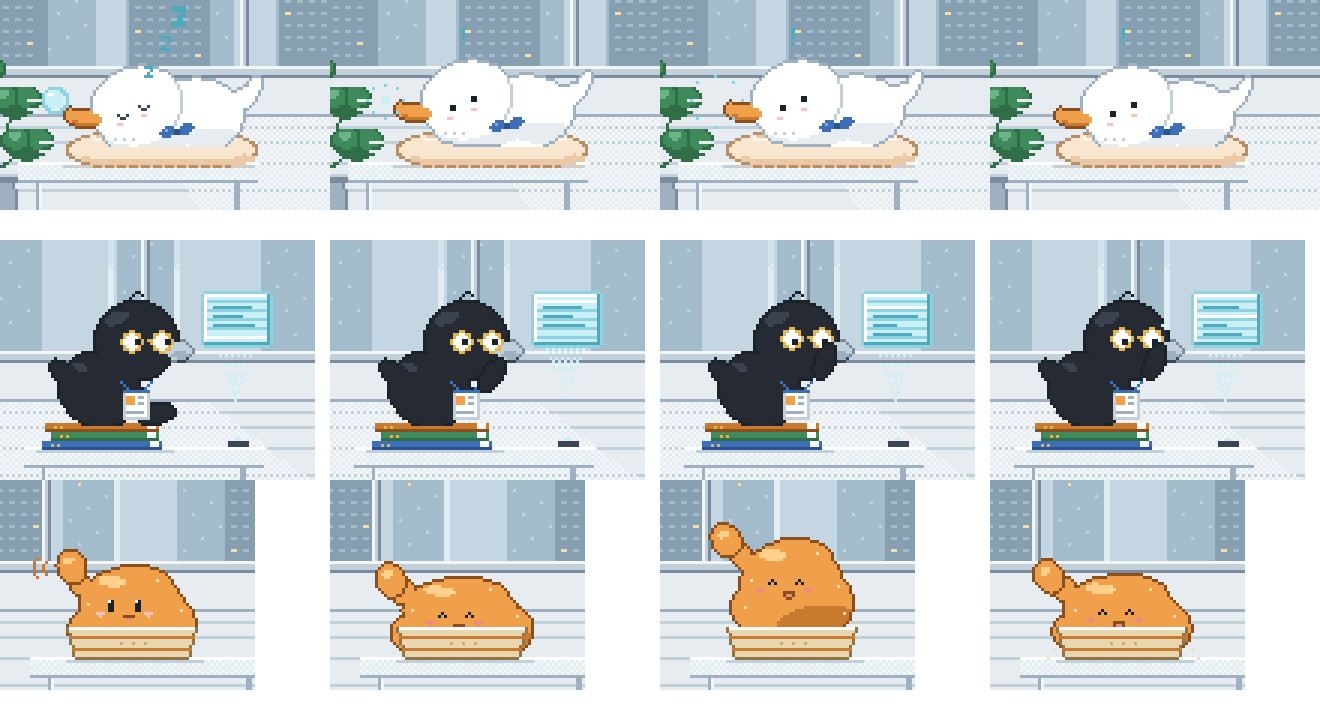
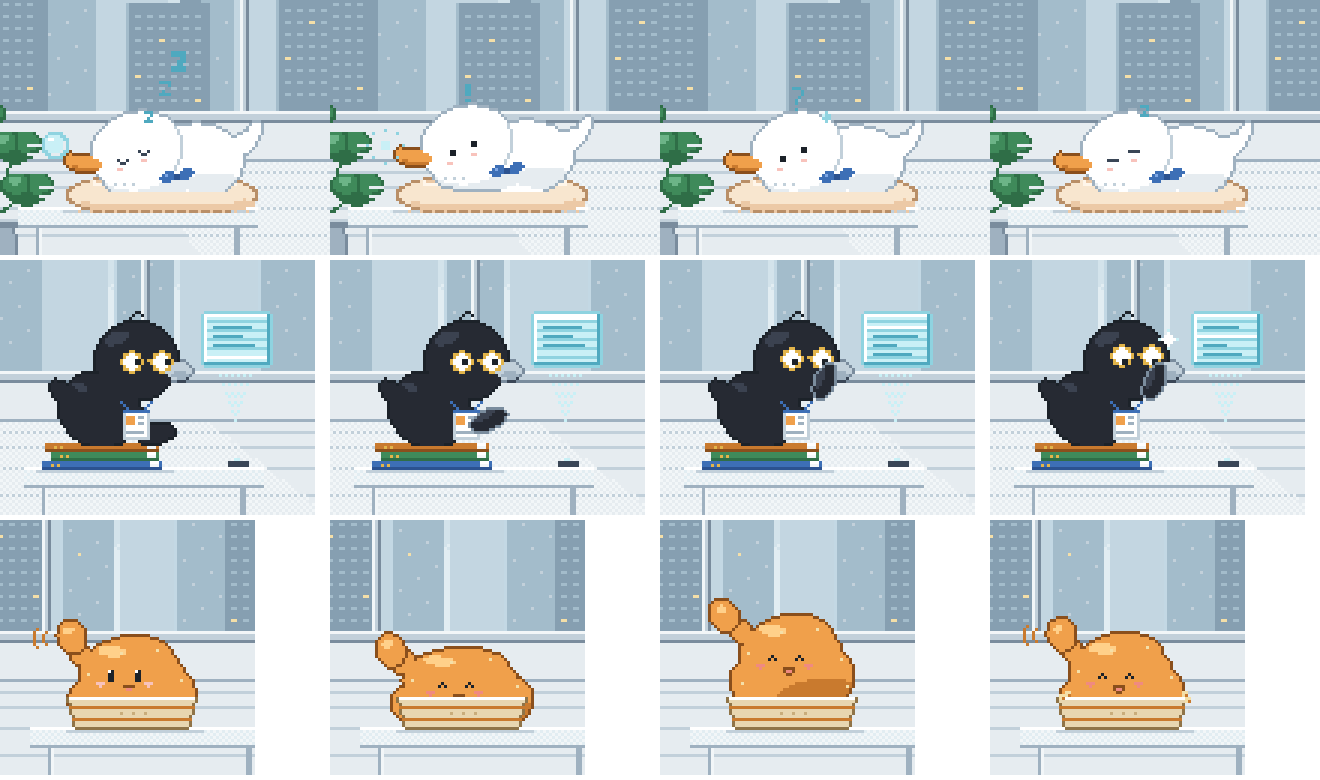
docs: company animation tweaks from review
Claude-Session: https://claude.ai/code/session_01DfELKGAuUeHGLNNJha5AAX

diff --git a/docs/plans/company/anim.html b/docs/plans/company/anim.html
@@ -85,10 +85,10 @@ let x = bgc.getContext('2d');
     for (let j = Math.floor(cy - m); j <= cy + m; j++) for (let i = Math.floor(cx - m); i <= cx + m; i++) { const dx = i + .5 - cx, dy = j + .5 - cy, u = (dx * cs + dy * sn) / rx, v = (-dx * sn + dy * cs) / ry;
       if (u * u + v * v <= 1 && i >= 0 && j >= 0 && i < W && j < H && (!only || L[j * W + i] === only)) L[j * W + i] = col; } };
   const OLC = { [C.wh]: C.g2, [C.g4]: C.g2, [C.o2]: C.o0, [C.o1]: C.o0, [C.o3]: C.o0, [C.k1]: C.ink0, [C.kh]: C.ink0, [C.g3]: C.g1 };
-  const outline = L => { const add = [];
+  const outline = (L, force) => { const add = [];
     for (let j = 0; j < H; j++) for (let i = 0; i < W; i++) { if (L[j * W + i]) continue; let col = null;
       for (const [dx, dy] of [[0, 1], [0, -1], [1, 0], [-1, 0]]) { const ni = i + dx, nj = j + dy; if (ni < 0 || nj < 0 || ni >= W || nj >= H) continue; const n = L[nj * W + ni]; if (n) { col = OLC[n] || C.ink2; if (dy === -1) break; } }
-      if (col) add.push([i, j, col]); }
+      if (col) add.push([i, j, force || col]); }
     add.forEach(([i, j, col]) => L[j * W + i] = col); };
   const blitL = (L, maxY = H) => { for (let k = 0; k < W * H; k++) if (L[k] && ((k / W) | 0) < maxY) px(k % W, (k / W) | 0, L[k]); };
   const deskBase = cx => {
@@ -130,7 +130,7 @@ function chars(t) {
 
   // ---- 茱莉鴨：泡泡慢慢吹大 → 啵 → 整隻彈一下、眼睛變圓點、愣一秒 → 慢慢睡回去（不會真的醒） ----
   { const POP = 3.0, since = tt - POP;
-    const startled = since >= 0 && since < 1.1, drowsy = since >= 1.1 && since < 1.6, gone = since >= 0 && since < 1.6;
+    const startled = since >= 0 && since < 1.2, drowsy = since >= 1.2 && since < 1.9, gone = since >= 0 && since < 1.9;
     const hop = since >= 0 && since < .32 ? Math.round(Math.sin(since / .32 * Math.PI) * 3) : 0;
     const br = gone ? 0 : (Math.sin(tt * Math.PI) + 1) / 2;   // 睡覺呼吸，2 秒一次
     const by = DY - 7 - hop, cx = 74, L = Lay(), E = (a, b, rx, ry, col, th, only) => lel(L, cx + a * S, by + b * S, rx * S, ry * S, col, th, only);
@@ -146,7 +146,8 @@ function chars(t) {
     const hx = cx - 6 * S, hy = by - 10 * S;
     [[-7, 2], [0, -1]].forEach(([a, b]) => { const ex = Math.round(hx + a), ey = Math.round(hy + b);
       if (startled) { lp(L, ex + 1, ey - 1, C.ink0); lp(L, ex + 2, ey - 1, C.ink0); lp(L, ex + 1, ey, C.ink0); lp(L, ex + 2, ey, C.ink0); }   // 眼睛變兩顆圓點
-      else if (drowsy) { lp(L, ex, ey, C.ink2); lp(L, ex + 1, ey, C.ink2); lp(L, ex + 2, ey, C.ink2); lp(L, ex + 3, ey, C.ink2); }          // 眼皮慢慢闔上
+      else if (drowsy && since < 1.55) { lp(L, ex, ey, C.ink2); lp(L, ex + 1, ey, C.ink2); lp(L, ex + 2, ey, C.ink2); lp(L, ex + 3, ey, C.ink2); lp(L, ex + 1, ey + 1, C.ink0); lp(L, ex + 2, ey + 1, C.ink0); }   // 半睜半閉
+      else if (drowsy) { lp(L, ex, ey, C.ink2); lp(L, ex + 1, ey, C.ink2); lp(L, ex + 2, ey, C.ink2); lp(L, ex + 3, ey, C.ink2); }          // 瞇成一條線
       else { lp(L, ex, ey, C.ink2); lp(L, ex + 1, ey + 1, C.ink2); lp(L, ex + 2, ey + 1, C.ink2); lp(L, ex + 3, ey, C.ink2); } });
     [[-7, 5], [1, 2]].forEach(([a, b]) => { lp(L, hx + a, hy + b, C.pk2); lp(L, hx + a + 1, hy + b, C.pk2); });
     for (let k = 0; k < 3; k++) lp(L, cx - 16 + k * 3, by - 3, C.g3);
@@ -155,7 +156,7 @@ function chars(t) {
     blitL(L, DY - 7);
     const qx = Math.round(cx - 27 * S), qy = Math.round(DY - 7 - 12 * S);
     if (!gone) {   // 泡泡：破掉 1.6 秒後重新吹，吹 6.4 秒
-      const ph = ((tt - (POP + 1.6)) % LOOP + LOOP) % LOOP / (LOOP - 1.6), r = .8 + 3.2 * ph + br * .35, cxq = qx + Math.round(2 - 2 * ph);
+      const ph = ((tt - (POP + 1.9)) % LOOP + LOOP) % LOOP / (LOOP - 1.9), r = .8 + 3.2 * ph + br * .35, cxq = qx + Math.round(2 - 2 * ph);
       if (r > 1.4) { for (let k = 0; k < 32; k++) { const a = k / 32 * Math.PI * 2; px(Math.round(cxq + Math.cos(a) * r), Math.round(qy + Math.sin(a) * r), C.cy); }
         el(cxq, qy, r - .6, r - .6, C.cy2); if (r > 2.4) { px(cxq - Math.round(r * .5), qy - Math.round(r * .5), C.wh); px(cxq - Math.round(r * .5) + 1, qy - Math.round(r * .5), C.wh); } }
       else px(cxq, qy, C.cy);
@@ -165,12 +166,18 @@ function chars(t) {
     }
     if (!gone) {   // Z：一個一個往上飄
       for (let k = 0; k < 3; k++) { const p = (tt * .4 + k / 3) % 1, s = p < .33 ? 1 : p < .66 ? 1.34 : 1.67; Zp(Math.round(cx - 6 + p * 14), Math.round(DY - 34 - p * 30), s); }
-    } else if (startled) { R(cx - 10, DY - 47, 1, 4, C.cy0); px(cx - 10, DY - 42, C.cy0); }   // 驚嚇的「！」
+    } else if (startled) {
+      const hx = cx - 9, hy = DY - 7 - hop - 34;
+      if (since < .45) { R(hx, hy, 1, 4, C.cy0); px(hx, hy + 5, C.cy0); R(hx + 1, hy, 1, 4, C.cy0); px(hx + 1, hy + 5, C.cy0); }   // 「！」
+      else { [[0, 0], [1, 0], [2, 0], [3, 1], [3, 2], [2, 3], [1, 4], [1, 5], [1, 7]].forEach(([a, b]) => px(hx - 1 + a, hy - 1 + b, C.cy0)); }   // 然後變成「？」
+      const sy = Math.round(by - 21 * S + Math.min(4, (since - .2) * 6)); if (since > .2) { px(cx + 1, sy, C.cy); R(cx, sy + 1, 3, 2, C.cy); px(cx + 1, sy + 3, C.cy); px(cx, sy + 1, C.cy2); }   // 一滴汗滑下來
+    }
+    if (drowsy && since > 1.55) Zp(cx - 4, DY - 36, 1);   // 第一個 Z 先冒出來
   }
 
   // ---- 小吳鴨：一直盯著螢幕看（眼睛左右掃），5 秒時用翅膀尖推眼鏡，鏡片閃一下 ----
   { const pp = tt - 5.0, w = pp < 0 || pp > .95 ? 0 : pp < .25 ? ease(pp / .25) : pp < .65 ? 1 : ease(1 - (pp - .65) / .3);
-    const gy = pp > .3 && pp < .7 ? -1 : 0, glint = pp > .42 && pp < .78;
+    const gy = pp > .28 && pp < .45 ? -1 : pp >= .45 && pp < .75 ? -2 : pp >= .75 && pp < .85 ? -1 : 0, glint = pp > .42 && pp < .82;
     const by = DY - 9, cx = 176, L = Lay(), E = (a, b, rx, ry, col, th, only) => lel(L, cx + a * S, by + b * S, rx * S, ry * S, col, th, only);
     E(-2, -9, 10, 9, C.k1, .35); E(7, -21, 10, 9.5, C.k1); E(-11, -13, 4, 2, C.k1, .7);
     if (w < .05) E(12, -3, 4.5, 2.2, C.k1, -.2);
@@ -184,7 +191,7 @@ function chars(t) {
     const lens = (lx, ly) => { lel(L, lx, ly, 3, 3, C.wh); for (let k = 0; k < 24; k++) { const a = k / 24 * Math.PI * 2; lp(L, lx - .5 + Math.cos(a) * 3.4, ly - .5 + Math.sin(a) * 3.4, C.au1); }
       const ex = lx + look; lp(L, ex, ly - 1 - gy, C.ink0); lp(L, ex + 1, ly - 1 - gy, C.ink0); lp(L, ex, ly - gy, C.ink0); lp(L, ex + 1, ly - gy, C.ink0); };
     const ly = Math.round(by - 21 * S) + gy; lens(Math.round(cx + 6 * S), ly); lens(Math.round(cx + 13 * S), ly); lp(L, Math.round(cx + 9.5 * S), ly - 1, C.au1);
-    if (glint) { const gx = Math.round(cx + 13 * S); [[-2, 1], [-1, 0], [0, -1], [1, -2]].forEach(([a, b]) => lp(L, gx + a, ly + b, C.wh)); }
+    if (glint) { const gx = Math.round(cx + 13 * S); [[-2, 1], [-1, 0], [0, -1], [1, -2], [-1, 1], [0, 0], [1, -1]].forEach(([a, b]) => lp(L, gx + a, ly + b, C.wh)); }
     const kx = Math.round(cx + 4), ky = Math.round(by - 15);
     [[0, 0], [1, 1], [2, 2], [10, 0], [9, 1], [8, 2]].forEach(([a, b]) => lp(L, kx + a, ky + b, C.b1));
     for (let j = 0; j < 10; j++) for (let i = 0; i < 9; i++) lp(L, kx + 1 + i, ky + 3 + j, j === 0 ? C.b1 : (i === 0 || j === 9 || i === 8) ? C.g3 : C.wh);
@@ -192,9 +199,9 @@ function chars(t) {
     [[6, 5, 2], [6, 7, 2], [2, 10, 6]].forEach(([a, b, wd]) => { for (let i = 0; i < wd; i++) lp(L, kx + a + i, ky + b, C.g2); });
     blitL(L, by);
     if (w >= .05) {   // 舉起來的翅膀另外一層，疊在臉前面才看得到
-      const Wg = Lay(); lel(Wg, cx + (12 + 2 * w) * S, by + (-3 - 13 * w) * S, 4.5 * S, 2.2 * S, C.k1, -.2 - w * 1.0); outline(Wg); blitL(Wg, by);
+      const Wg = Lay(); lel(Wg, cx + (12 + 2 * w) * S, by + (-3 - 13 * w) * S, 4.5 * S, 2.2 * S, C.k1, -.2 - w * 1.0); lel(Wg, cx + (11 + 2 * w) * S, by + (-4.2 - 13 * w) * S, 3 * S, .9 * S, C.kh, -.2 - w * 1.0, C.k1); outline(Wg, C.g1); blitL(Wg, by);   // 翅膀邊緣淺一點，疊在黑臉上才看得到
     }
-    if (glint) { const gx = Math.round(cx + 13 * S) + 4, gy2 = ly - 5; px(gx, gy2, C.wh); px(gx - 1, gy2, C.cy2); px(gx + 1, gy2, C.cy2); px(gx, gy2 - 1, C.cy2); px(gx, gy2 + 1, C.cy2); }
+    if (glint && pp > .5) { const gx = Math.round(cx + 13 * S) + 5, gy2 = ly - 6, r = pp < .66 ? 3 : 2; R(gx - 1, gy2 - 1, 3, 3, C.wh); for (let k = 2; k <= r; k++) { px(gx - k, gy2, C.wh); px(gx + k, gy2, C.wh); px(gx, gy2 - k, C.wh); px(gx, gy2 + k, C.wh); } px(gx - r - 1, gy2, C.cy2); px(gx + r + 1, gy2, C.cy2); px(gx, gy2 - r - 1, C.cy2); px(gx, gy2 + r + 1, C.cy2); }   // 清楚的白色小星星
     // 全息螢幕＋往下掃的掃描線
     const sx = cx + 32, sy = by - 44, sw = 22, sh = 17;
     R(sx + 8, DY - 4, 7, 2, C.ink2); px(sx + 10, DY - 5, C.cy2); px(sx + 11, DY - 5, C.cy2);
@@ -233,7 +240,7 @@ function chars(t) {
     if (wv > .3) [[-9, -2], [-10, -1], [-10, 0], [-10, 1], [-9, 2]].forEach(([a, b]) => px(hx + a, hy + b, C.o1));
     if (wv > .6) [[-12, -3], [-13, -2], [-13, -1], [-13, 0], [-13, 1], [-13, 2], [-12, 3]].forEach(([a, b]) => px(hx + a, hy + b, C.o1));
     boxFront(cx);
-    if (jp >= .5 && jp < .9) { const d = Math.round((jp - .5) * 20); [[-24 - d, -2], [24 + d, -2], [-22 - d, -5], [22 + d, -5]].forEach(([a, b]) => px(cx + a, DY + b, C.warm)); }   // 落地彈出麵衣屑
+    if (jp >= .5 && jp < 1.1) { const q = (jp - .5) / .6; [[-1, 14, 9], [1, 15, 8], [-1, 9, 12], [1, 10, 11]].forEach(([dir, vx, vy]) => { const a = Math.round(cx + dir * (16 + vx * q)), b = Math.round(DY - 13 - vy * q + 26 * q * q); if (b < DY - 1) { R(a, b, 2, 2, C.warm); px(a + 1, b + 1, C.o1); } }); }   // 落地噴出兩三顆麵衣屑，畫弧掉到桌上
   }
 }
 

diff --git a/docs/plans/company/README.md b/docs/plans/company/README.md
@@ -32,7 +32,7 @@
 - **介面風格要換**（2026-11-24 使用者：「有點復古了，我不要，我要現代日式＋科技感」）：**像素辦公室和角色保留，只換介面**（軟木板、紙條、木牌這些）。三種風格比較 `style.png`（`style.html`）：甲＝無印良品＋儀表板、乙＝近未來毛玻璃、丙＝和風終端機（車站告示）。**使用者選乙（近未來毛玻璃）**；接著問畫風能不能改，做畫風比較 `artstyle.png`（`artstyle.html`）：甲＝等角 2.5D 扁平、乙＝日式線稿插畫、丙＝柔和 3D（跟會員頭像一樣圓潤漸層）、丁＝近未來柔和 3D（使用者要「多一張符合介面的」：冷色落地窗、玻璃桌、全息螢幕、青色邊光）、戊＝現代像素・細顆粒（使用者要「現代感像素風，顆粒細一點」：375×330 一顆一個 CSS 像素、冷色、抖色漸層、玻璃桌、全息螢幕、青色邊光），都套毛玻璃介面。**使用者選戊（現代像素・細顆粒）**，覺得還有點粗糙，請專業的美術盯細節：像素美術指導（AI 審稿員）看了兩輪，照清單改了兩輪（固定 34 色、選擇性描邊、三階明暗、月牙邊光、身體在桌面切掉、全息螢幕實心＋掃描線＋緊貼發光外圈、天空三條橫帶、城市三層、窗框 3 顆、「丼」像素名牌、龜背芋扁心形葉、茱莉鴨閉眼垂頭、小吳鴨楔形嘴、雞塊亮弧）。前後對照 `artstyle-e-before-after.png`。
 - **可愛度**（2026-11-24 使用者：「角色不可愛，請個文組妹妹幫忙」）：文組妹妹（AI 審稿員，愛三麗鷗、角落生物、吉伊卡哇）看了說「形狀對了但臉沒靈魂、像卡在桌子後面的貼紙」，美術指導翻成像素規格後重畫：頭佔全身約 58%、豆豆眼＋白反光（保留招牌眼）、同一種淡粉圓腮紅 `#f8c3bc`、配件放大 1.5 倍、手／翅膀搭在桌上、椅背、影子、玻璃桌下的透影。茱莉鴨歪頭睡＋鼻涕泡泡＋馬克杯；小吳鴨三根翹毛、頭頂反光、往左尖的三角嘴、鍵盤；雞塊改成直立的圓角馬鈴薯、ω 嘴、米黃麵衣。**可愛公式**（之後角色都照做）：頭 55～60%、五官集中在頭下半部；豆豆眼＋一顆白反光但留招牌眼；腮紅同色、圓、在眼睛斜下；外框同色系深兩階、左上亮右下暗；招牌配件 1.5 倍。前後對照 `cute-before-after.png`。
 - **第四版被打槍**（使用者：「好醜，有種說不出的感覺」）。文組妹妹：「像夜市娃娃機的山寨三麗鷗，零件照清單貼上去；三隻正面對稱、手平放，像拍證件照；公式讓三隻像同一個模子印的。」她的三點：每隻一個動作和一點歪斜、五官縮小靠近往下放（黑臉不貼腮紅）、平塗少細節（可愛從形狀來）。所以上面的「可愛公式」只當參考，不要每隻照套。第五版先畫姿勢草稿 `poses.html`／`poses.png`（上排剪影、下排平塗）：茱莉鴨趴桌睡、小吳鴨往前湊看螢幕、雞塊舉手揮（橫的歪雞塊形，不要有像耳朵的凸起）。外框是自動加的：角色畫在自己的層，空格旁邊有顏色就塗那個顏色深一階。妹妹看草稿：方向對了、分得出三隻，但剪影不像鴨子、小吳鴨的臉被黑色吞掉。照她改了第二版：鴨嘴從剪影凸出去、茱莉鴨短短翹翹的鴨屁股和脖子上的領結、小吳鴨側頭伸出小尖嘴＋短尾巴＋白鏡片黑豆豆＋大識別證、雞塊短短圓圓高舉的小手。妹妹看第二版：剪影認得出兩隻鴨子了，可以進下一步；提醒不要把細節加回去、五官放大後不能跟著變大、黑臉不貼腮紅。**第五版**放進 `artstyle.html` 的戊：三隻坐在桌上（吉伊卡哇的大小感，不用椅子），放大 1.35 倍；平塗＋一階陰影＋一小塊亮；每隻一層自動描邊，頭身接成一整隻；茱莉鴨頭跟背中間一道淡線；小吳鴨頭頂一撮 1 顆寬的捲毛（不描邊，才不會像貓耳）、短圓小嘴、白鏡片細金框；雞塊手臂粗短。前後對照 `cute-v4-v5.png`。妹妹：「這版我會想存起來」，茱莉鴨、小吳鴨可以收藏；雞塊的手像薑或雞腳、臉太小太偏。坐桌上還是桌後交給妹妹決定：**坐在桌上，每隻有自己的小窩**（像角落生物都有自己的角落）——茱莉鴨睡小枕頭、小吳鴨坐一疊精裝書、雞塊坐在牛皮紙盒裡（不要像速食店的盒子）。雞塊的手改成另一層整圈描邊、短短胖胖，揮手線改成離手遠一點的弧線；臉放回中間、眼睛 2×4。對照 `cute-v5-v6.png`。妹妹：「可以收藏了」，最後改茱莉鴨的枕頭：原本扁扁藍灰色像趴在冰塊上，改成圓角方枕、暖奶茶色、鼓鼓的、頭壓下去的地方有凹痕。定稿圖 `cute-v6.png`。
-- **小動畫** `anim.html`（`anim.gif`、關鍵畫面 `anim-keys.png`；拍 GIF 用 `anim-gif.js`）：8 秒一輪、一秒 12 張，三隻錯開。雞塊一直揮手，1.2 秒麻糬跳（壓扁 → 拉長跳 7 顆 → 落地壓扁 → 回彈，跳的時候眼睛笑成 ^ ^、嘴張成 D、落地噴麵衣屑）；茱莉鴨睡覺呼吸、泡泡慢慢吹大，3 秒啵一聲破掉（水花），整隻彈 3 顆、眼睛變兩顆圓點、頭上一個「！」，愣 1.1 秒、眼皮慢慢闔上睡回去，1.6 秒後泡泡重新吹（不會真的醒，妹妹說這樣才是她）；Z 一個一個往上飄。小吳鴨眼睛一行一行左右掃，5 秒翅膀尖舉到臉前推眼鏡（翅膀另一層疊在臉前），眼鏡上移 1 顆、鏡片閃一道白光加小星星。全息螢幕掃描線往下掃、字一行一行捲、光柱閃。背景只畫一次，角色每張重畫。動畫建議（茱莉鴨睡覺 4 格、全息螢幕掃描線、收款時雞塊壓扁彈起＋金幣、小吳鴨眼鏡閃光）還沒做。
+- **小動畫** `anim.html`（`anim.gif`、關鍵畫面 `anim-keys.png`；拍 GIF 用 `anim-gif.js`）：8 秒一輪、一秒 12 張，三隻錯開。雞塊一直揮手，1.2 秒麻糬跳（壓扁 → 拉長跳 7 顆 → 落地壓扁 → 回彈，跳的時候眼睛笑成 ^ ^、嘴張成 D、落地噴麵衣屑）；茱莉鴨睡覺呼吸、泡泡慢慢吹大，3 秒啵一聲破掉（水花），整隻彈 3 顆、眼睛變兩顆圓點、頭上一個「！」，愣 1.1 秒、眼皮慢慢闔上睡回去，1.6 秒後泡泡重新吹（不會真的醒，妹妹說這樣才是她）；Z 一個一個往上飄。小吳鴨眼睛一行一行左右掃，5 秒翅膀尖舉到臉前推眼鏡（翅膀另一層疊在臉前），眼鏡上移 1 顆、鏡片閃一道白光加小星星。全息螢幕掃描線往下掃、字一行一行捲、光柱閃。背景只畫一次，角色每張重畫。妹妹看完：最可愛是雞塊跳起來；小吳鴨推眼鏡黑翅膀疊黑臉看不見、像摀嘴挖鼻孔 → 舉起來的翅膀改成淺灰描邊＋上緣一道亮、眼鏡推高 2 顆、閃光改成清楚的白色十字星；茱莉鴨「愣住」跟「睡回去」分不出 → 先「！」再變「？」、一滴汗滑下來，眼皮半睜 → 瞇成一條線，第一個 Z 先冒出來；雞塊落地噴兩三顆麵衣屑畫弧掉到桌上。動畫建議（茱莉鴨睡覺 4 格、全息螢幕掃描線、收款時雞塊壓扁彈起＋金幣、小吳鴨眼鏡閃光）還沒做。
 - 2026-11-24 第三輪：**規模乘 3**、**最短 3 分鐘**、**做砸了只付一成**（開工前看得到成功率）、**升級價錢照建議**、**中期目標先做第一批**（設備、系列案、員工圖鑑、公司榜）。數字見 `economy.md` 第二版。
 - **公司帳戶**（2026-11-24，使用者：「都要，執行長增資也要」）：**搬家升級只能用公司帳戶付**，還要「做完幾件案子」；結案的錢進公司帳戶，可以轉進錢包，錢包不能直接轉進公司。**錢包可以付**：聘人的簽約金、刷新應徵、員工訓練（花錢升級）、設備、打廣告（一段時間委託板多一張、特好賺比較常出現）、加班費（馬上做完一件）。**執行長增資**：每天可以從錢包轉一筆進公司帳戶，上限＝當階一天能賺的量（最多快一倍）。目的：打工賺很多的人有優勢（比較快、比較強），但不會第一天就跳到大樓。
 - 2026-11-24 第二輪：數字**先暫定** `economy.md` 那組；**公司名字最多 12 字**；入口**放在會員中心打工那一區**（甲）。

diff --git a/changelog/2026-11.md b/changelog/2026-11.md
@@ -1301,3 +1301,8 @@
 - 做了小動畫，8 秒一輪、三隻輪流動：雞塊一直揮手、偶爾像麻糬一樣壓扁再跳起來；茱莉鴨的鼻涕泡泡慢慢吹大、啵一聲破掉，整隻嚇一跳、眼睛變圓點，愣一下又睡回去；小吳鴨眼睛一行一行讀螢幕，偶爾用翅膀推眼鏡、鏡片閃一下。
 - 全息螢幕會掃描、字會捲動。
 - 動圖 `docs/plans/company/anim.gif`。只是企劃，網站沒有變。
+
+## 2026-11-24 21:00（台灣）　開公司：小動畫照妹妹的意見修
+- 小吳鴨推眼鏡：原本黑翅膀疊在黑臉上看不見，像在摀嘴，改成翅膀有淺色邊；眼鏡推高一點，鏡片閃一顆清楚的白色小星星。
+- 茱莉鴨嚇醒：頭上先冒「！」再變「？」、一滴汗滑下來，眼皮慢慢瞇回一條線，Z 再飄出來，看得出她又睡著了。
+- 雞塊落地時噴兩三顆麵衣屑掉到桌上。只是企劃，網站沒有變。
